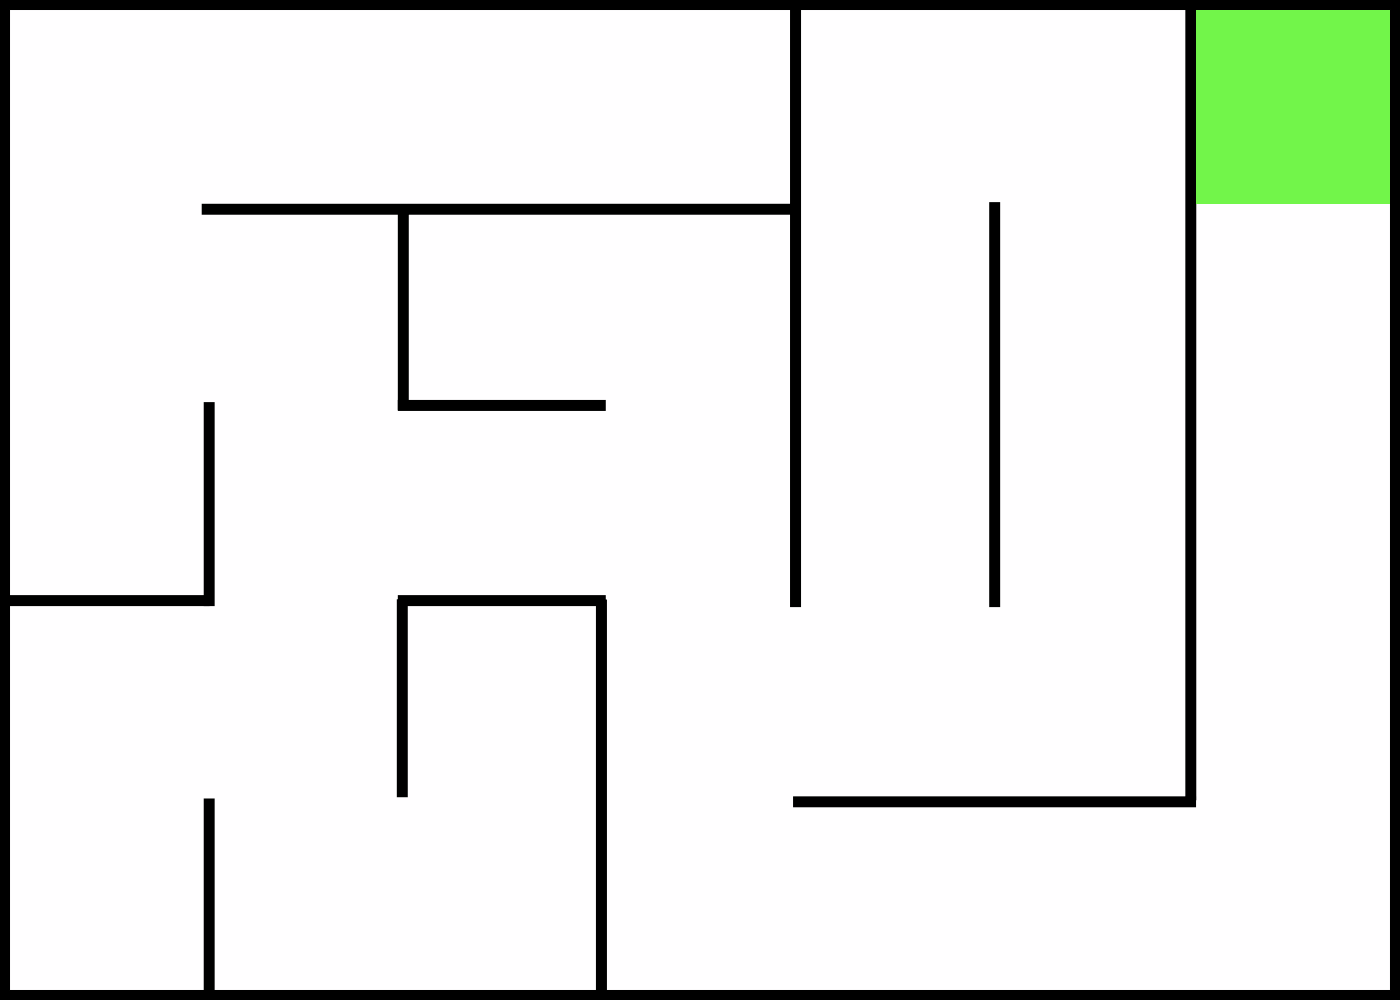
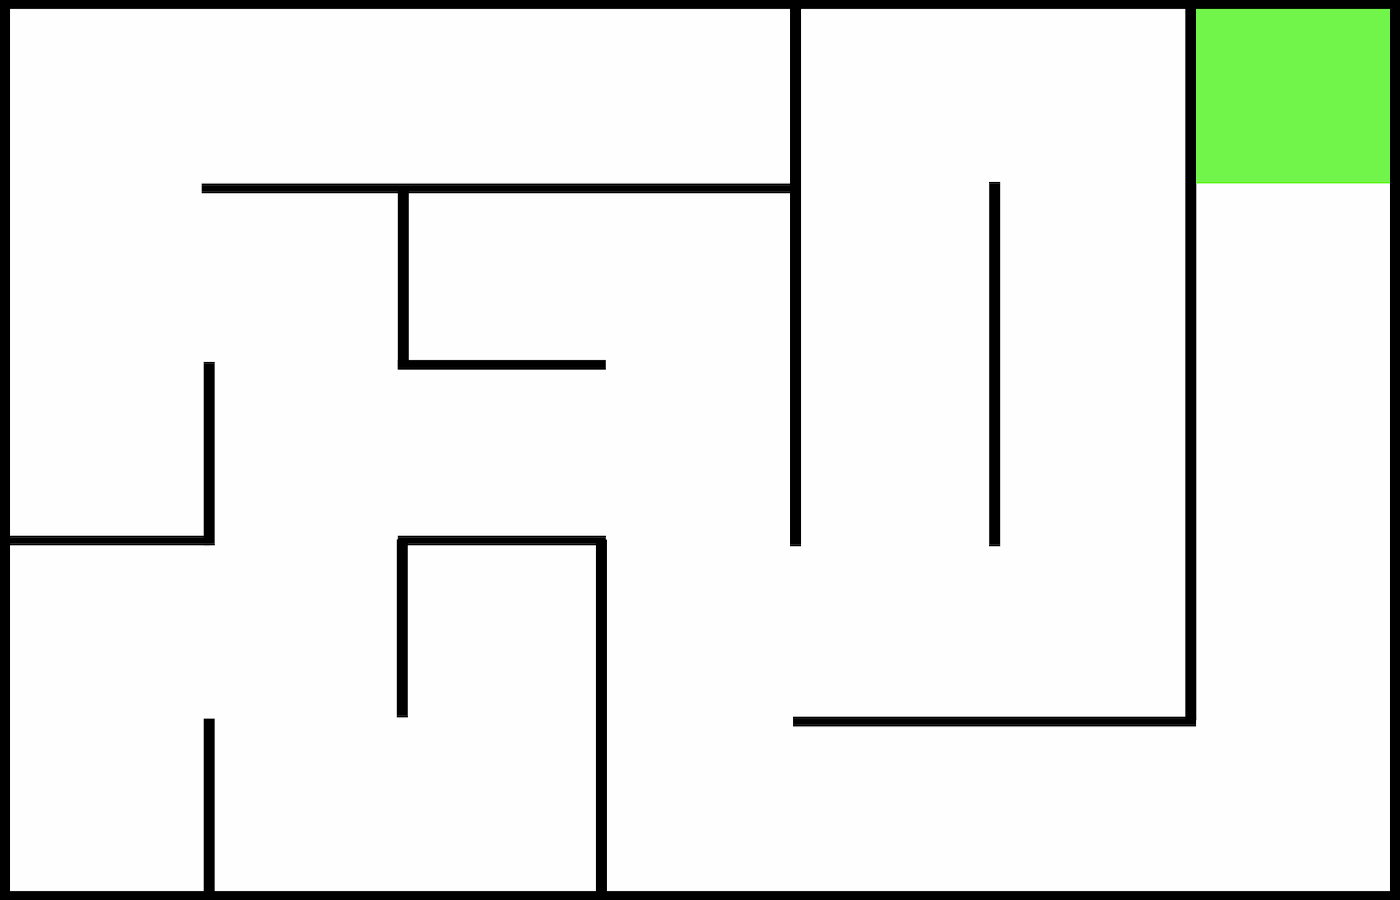
test non func

diff --git a/main.py b/main.py
@@ -1,5 +1,6 @@
 # Description:
 # Created by Emilia and Amanda on 2024-08-30
+import math
 import sys
 import pygame
 import time
@@ -8,6 +9,7 @@ import random
 import Level
 import Button
 import Bullet
+
 clock = pygame.time.Clock()
 #
 # -----------------------------------------------------------------------------------------------------------------
@@ -16,9 +18,10 @@ from click._compat import WIN
 
 pygame.font.init()  # intializes fonts to display text
 
-Width, Height = 1400, 1000
+Width, Height = 1400, 900
 Window = pygame.display.set_mode((Width, Height))
 pygame.display.set_caption("qwack")
+
 
 #
 # -----------------------------------------------------------------------------------------------------------------
@@ -33,6 +36,7 @@ def level1():
     levela = 1
     lol.printData()
 
+
 def level2():
     print("Level 2 selected")
 
@@ -41,14 +45,13 @@ def level3():
     print("Level 3 selected")
 
 
-
 #
 # -----------------------------------------------------------------------------------------------------------------
 #
 
-#loading screen
+# loading screen
 def loadLevel():
-    for i in range(0, 255, 14): #fade to white since maze is in (vomit) light mode
+    for i in range(0, 255, 14):  # fade to white since maze is in (vomit) light mode
         Window.fill((i, i, i))
         pygame.display.flip()
         clock.tick(20)
@@ -89,6 +92,13 @@ def rendertext():
     pygame.display.update()
 
 
+# rotate duck to face mouse
+def rotate_image(image, angle, pos):
+    rotated_image = pygame.transform.rotate(image, -angle)  # Rotate the image
+    rotated_rect = rotated_image.get_rect(center=pos)  # Keep the center at the circle's center
+    return rotated_image, rotated_rect
+
+
 #
 # -----------------------------------------------------------------------------------------------------------------
 #
@@ -119,42 +129,49 @@ def main():
                             Thus, we use a callback attribute in the Button class. (level1, level2... during initialization above)
                             This attribute stores a reference to the function that should be executed when the button is pressed..
                             '''
-                            button.tick = 20 #set the greyed out timer
+                            button.tick = 20  # set the greyed out timer
 
         if gamemode == 1:
-            if levela == 1:
-                car = pygame.image.load('maps/level1.png') #automate this based on level class information
-                Window.blit(car, (0,0))
-            #automate display of character    and everything else     pygame.draw.circle(Window, 'grey', [600, 600], 30)
+            levelnum = 'maps/level' + str(levela) + '.png'
+            car = pygame.image.load(levelnum)
+            Window.blit(car, (0, 0))
+            levelData = Level.Level(levela)
+            pygame.draw.circle(Window, 'grey', [int(levelData.playerX), int(levelData.playerY)], 30)
 
-
-
-
+            # automate display of character    and everything else
 
         mouse_pos = pygame.mouse.get_pos()
+        mousx, mousy = pygame.mouse.get_pos()
+        locplayerx = levelData.playerX
+        locplayery = levelData.playerY
 
+        angle = math.degrees(math.atan2(mousy - locplayery, mousx - locplayerx))
+        circle_center = (levelData.playerX, levelData.playerY)
+        rotated_image, rotated_rect = rotate_image('duck.png', angle, circle_center)
 
         if gamemode <= 0:
             for button in buttons:
-                if button.tick == 0: #when tick = 0, it means button not pressed. so it colors it grey for hover
+                if button.tick == 0:  # when tick = 0, it means button not pressed. so it colors it grey for hover
                     button.is_hovered(mouse_pos)  # Update button hover state based on mouse position
                     button.draw(Window)
                 else:
-                    button.tick-=1 #tick isnt 0 so it counts down a timer until it becomes 0 to resume the normal color.
-                    button.color = (100,100,100) #temporary darker button to confirm you clicked button
+                    button.tick -= 1  # tick isnt 0 so it counts down a timer until it becomes 0 to resume the normal color.
+                    button.color = (100, 100, 100)  # temporary darker button to confirm you clicked button
                     button.draw(Window)
         """ testing bullet movement
         bullet = Bullet.Bullet(0, 400, 400)
         bullet.draw(Window)
         bullet.move()
         """
+
+        Window.blit(rotated_image, rotated_rect)
         if gamemode <= 0:
             rendertext()  # Render main menu text and subtitle. usually do this last otherwise might cause artifacts/flickering
         pygame.display.flip()  # Update the display with the drawn frame
         clock.tick(60)  # fps limit of 60 FPS so you dont burn your customers laptop
 
-
     pygame.quit()  # Quit pygame when the loop exits
+
 
 #
 # -----------------------------------------------------------------------------------------------------------------

diff --git a/Level.py b/Level.py
@@ -28,9 +28,9 @@ class Level:
             self.l.append([obstacles[i * 3], obstacles[i * 3 + 1], obstacles[i * 3 + 2]])
 
     def printData(self):
-        print(self.image)
-        print(self.playerX)
-        print(self.playerY)
-        print(self.bullets)
-        print(self.l)
+        print('img', self.image)
+        print('x',self.playerX)
+        print('y',self.playerY)
+        print('bullets',self.bullets)
+        print('obstaclelist',self.l)
         loadLevel()  # activate the loading screen sequence fade to white
